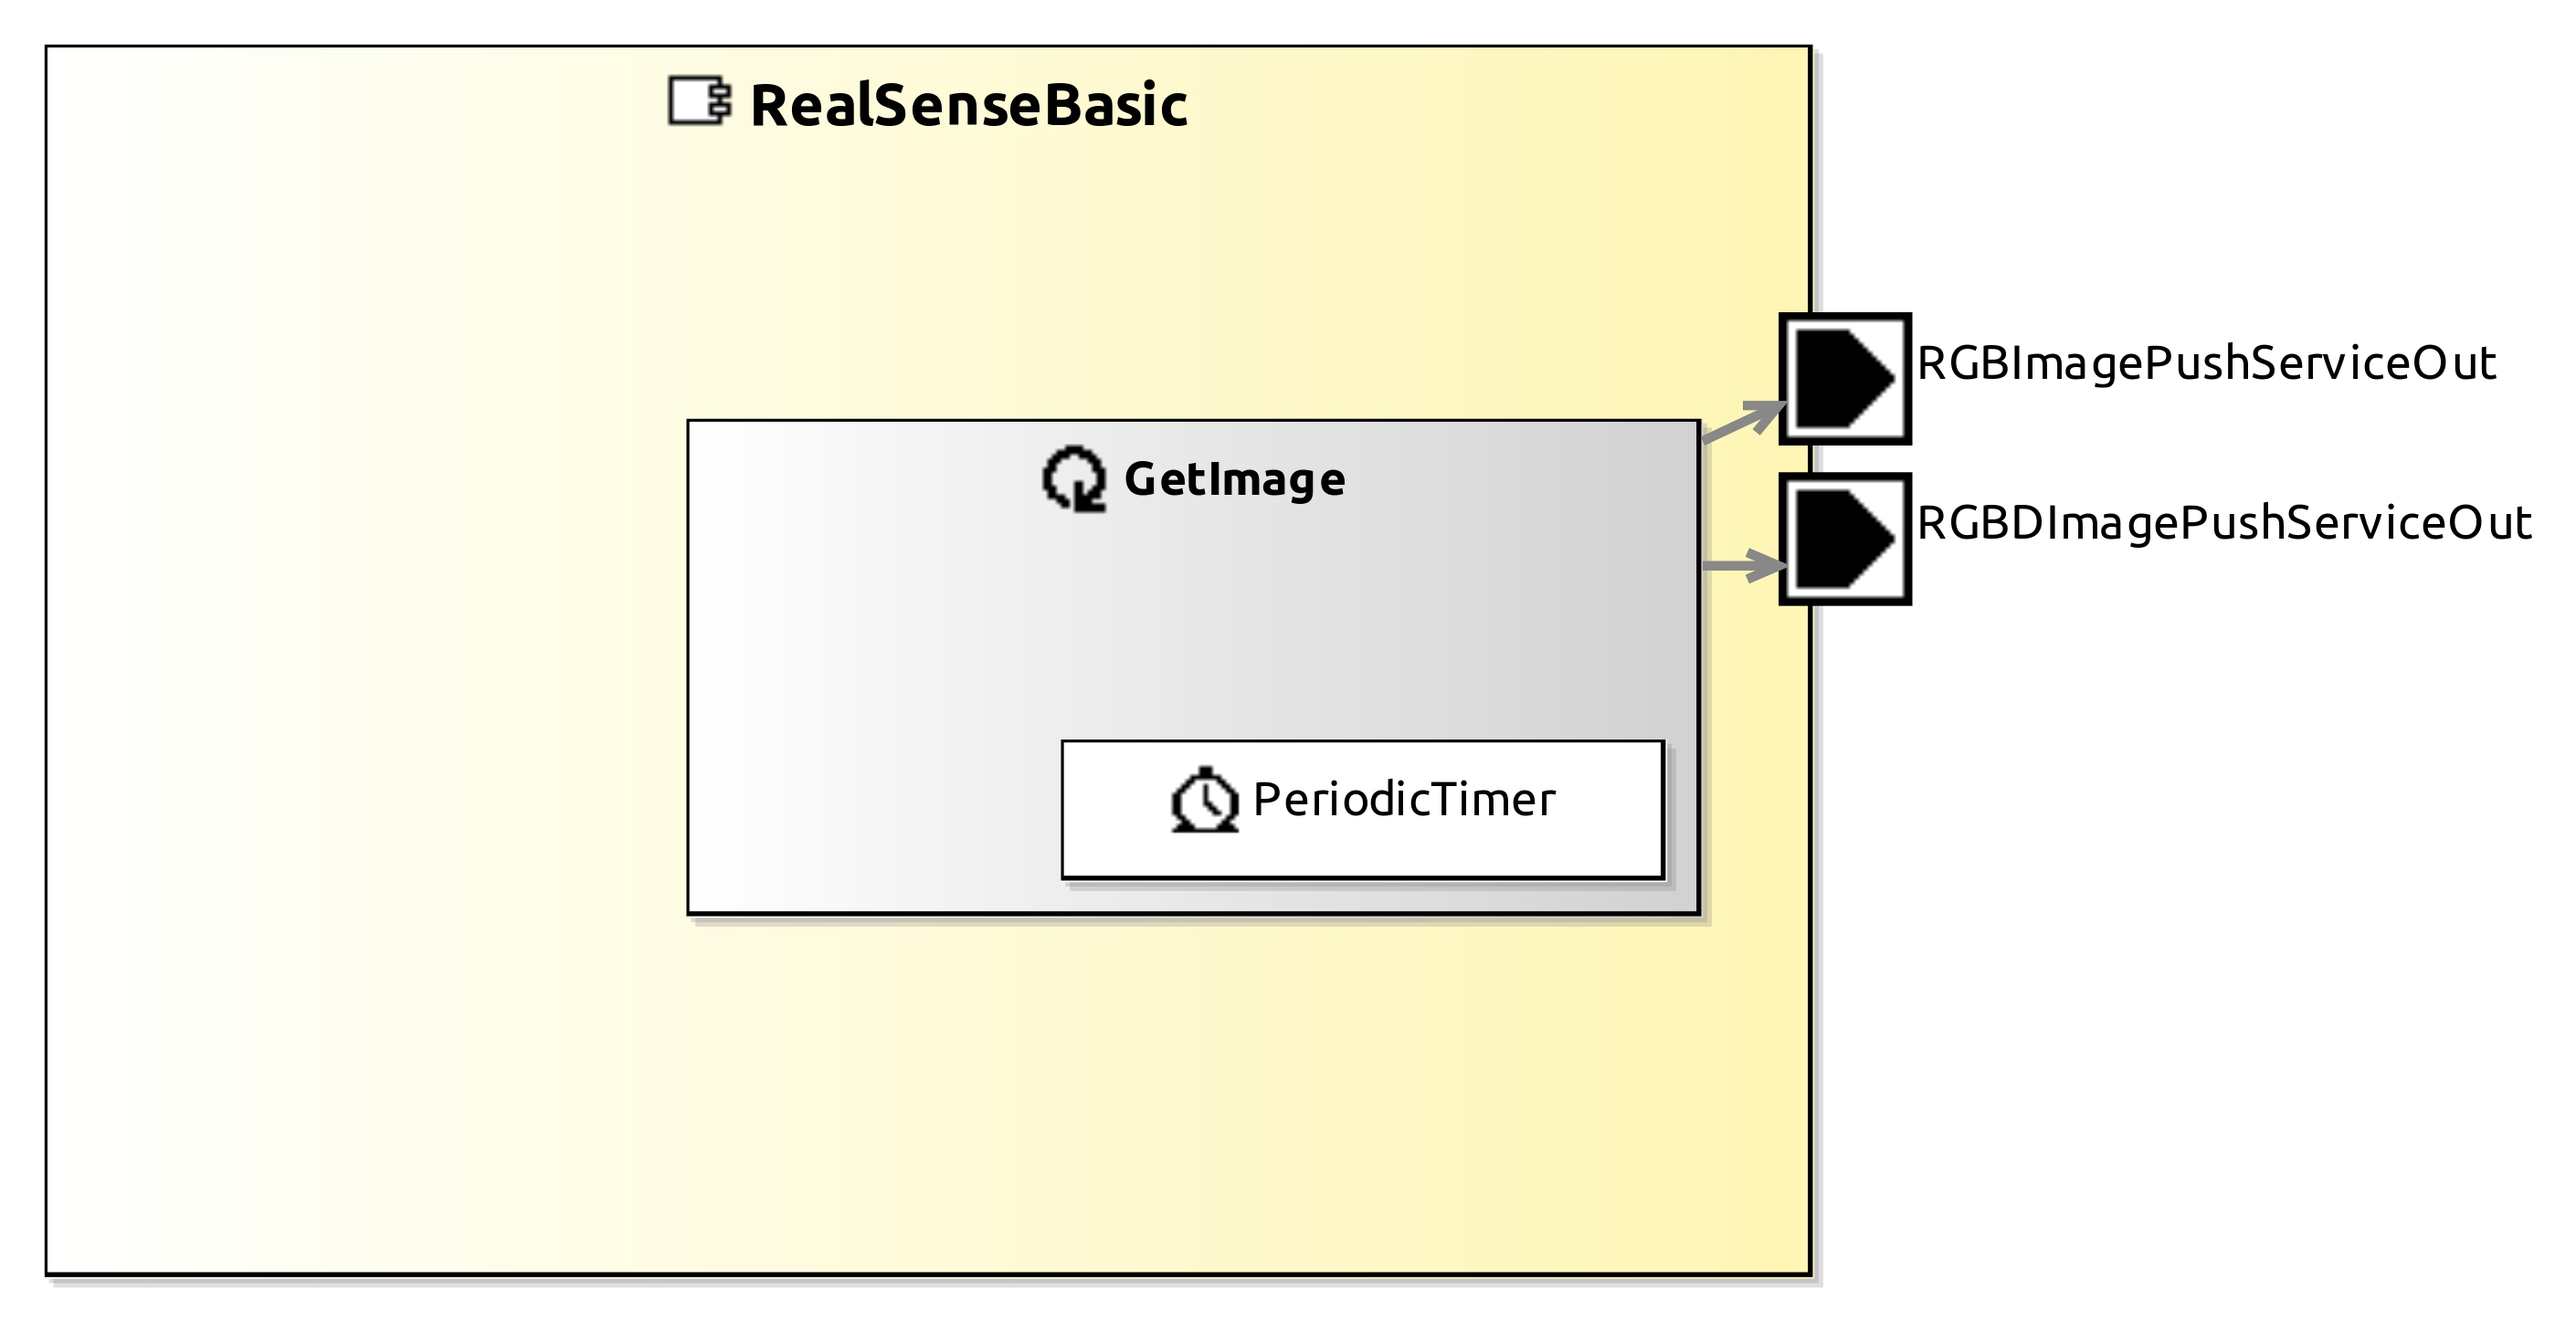
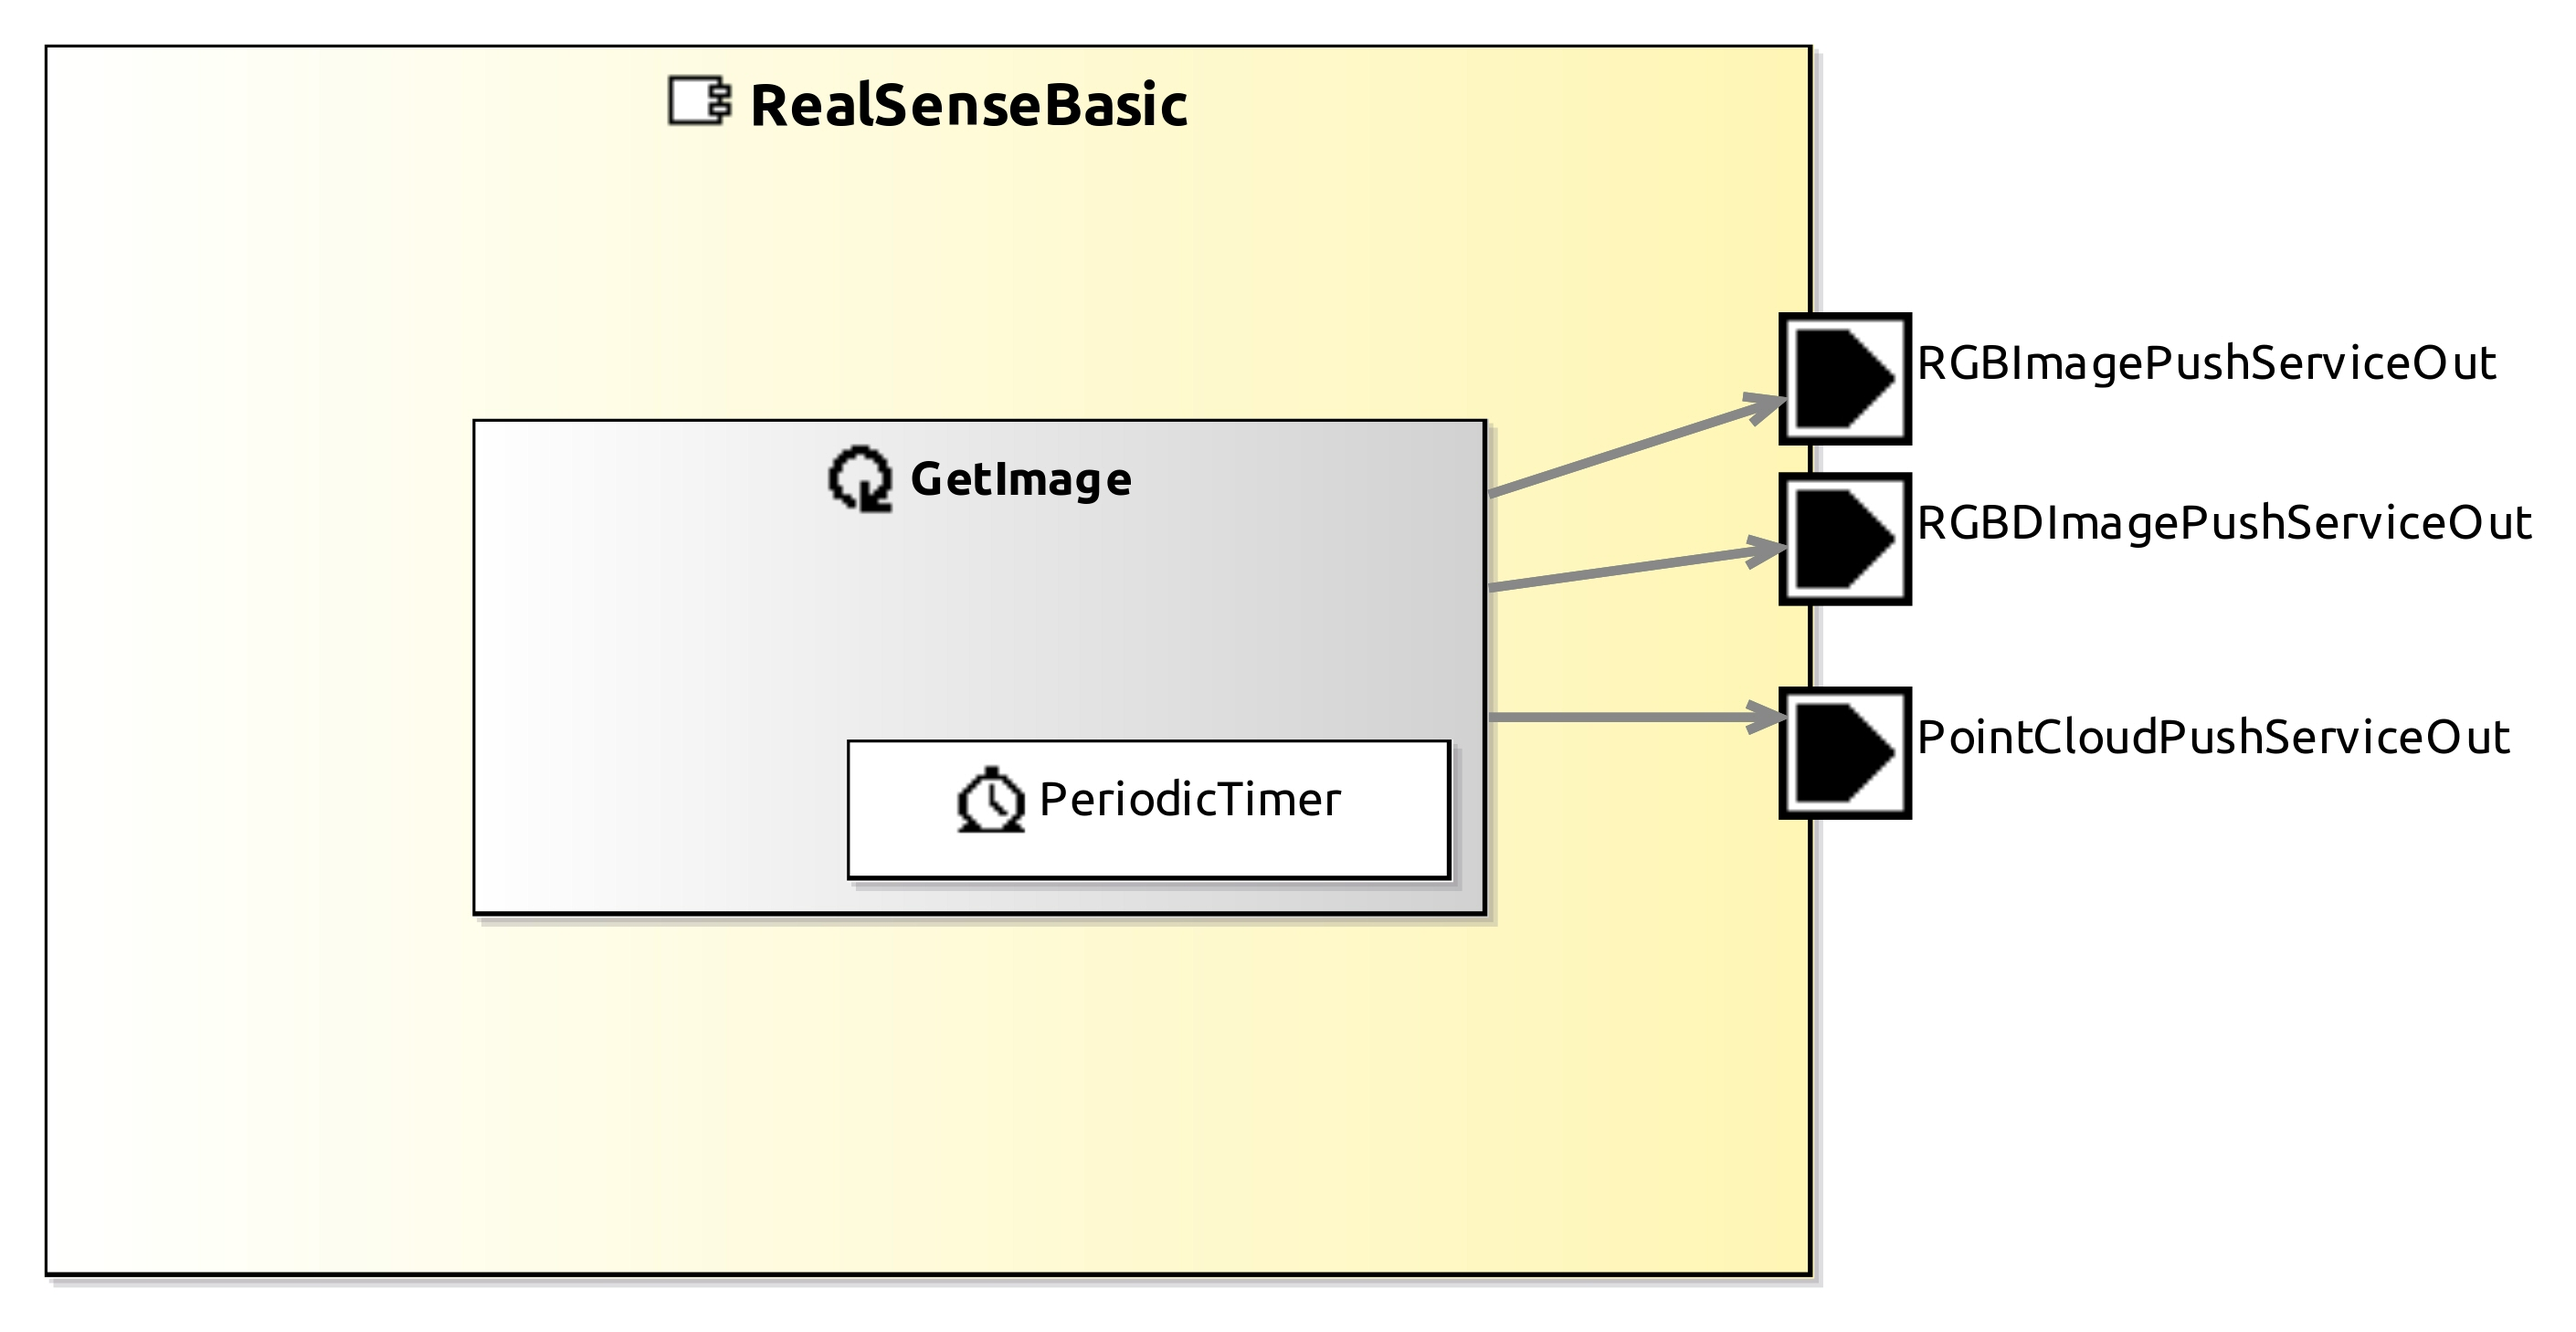
pointcloud push service

Changed region(s): [[0.3121, 0.3084, 0.9674, 0.7094], [0.3121, 0.3393, 0.5305, 0.401], [0.1872, 0.6785, 0.2809, 0.7094]]

diff --git a/RealSenseBasic/smartsoft/src/GetImage.cc b/RealSenseBasic/smartsoft/src/GetImage.cc
@@ -106,6 +106,42 @@ void GetImage::getdepthimage(DomainVision::CommDepthImage& comm_depth_frame)
 	comm_depth_frame.set_distances(depth_frame, frame_width, frame_height);
 }
 
+void GetImage::getpointcloud(DomainVision::Comm3dPointCloud& comm_pointcloud_frame, DomainVision::CommDepthImage comm_depth_frame)
+{
+	int img_width = comm_depth_frame.getWidth();
+	int img_height = comm_depth_frame.getHeight();
+	std::vector<CommBasicObjects::CommPosition3d> points;
+
+	float cx=308.2192687988281,  cy = 245.59515380859375; //rgb intrinsic
+	//float fx = 473.1015319824219, fy = 473.1015625;
+	float fx =  618.5377197265625, fy = 618.5377807617188;
+
+	//float* data = (float*) comm_depth_frame.get_distances_float();
+
+
+	rs2::depth_frame current_depth_frame = current_frameset.get_depth_frame();
+    // Query frame size (width and height)
+    const int frame_height = current_depth_frame.as<rs2::video_frame>().get_height();
+    const int frame_width = current_depth_frame.as<rs2::video_frame>().get_width();
+
+    for (int x = 0;x < frame_width; x++)//To loop through all the pixels
+           for (int y = 0; y < frame_height; y++)
+        	if (current_depth_frame.get_distance(x,y) != 0){
+				CommBasicObjects::CommPosition3d pt;
+				double ptx, pty, ptz;
+
+				ptz = current_depth_frame.get_distance(x,y);
+				ptx =  (x - cx)*ptz/fx;
+				pty =  (y - cy)*ptz/fy;
+
+				pt.setX(ptx);	pt.setY(pty);	pt.setZ(ptz);
+				points.push_back(pt);
+		}
+
+	comm_pointcloud_frame.setPoints(points);
+	std:: cout << "New PC "  <<std::endl;
+}
+
 int GetImage::on_entry()
 {
 	// do initialization procedures here, which are called once, each time the task is started
@@ -119,13 +155,17 @@ int GetImage::on_execute()
 	DomainVision::CommRGBDImage rgbd_frame;
 	DomainVision::CommDepthImage comm_depth_frame;
 	DomainVision::CommVideoImage comm_rgb_frame;
+	DomainVision::Comm3dPointCloud comm_pointcloud_frame;
 	
 	current_frameset = pipe.wait_for_frames();
 
 
 	getrgbimage(comm_rgb_frame);
 	getdepthimage(comm_depth_frame);
+	getpointcloud(comm_pointcloud_frame, comm_depth_frame);
+
 	COMP->rGBImagePushServiceOut->put(comm_rgb_frame);
+	COMP->pointCloudPushServiceOut->put(comm_pointcloud_frame);
 
 	rgbd_frame.setColor_image(comm_rgb_frame);
 	rgbd_frame.setDepth_image(comm_depth_frame);
